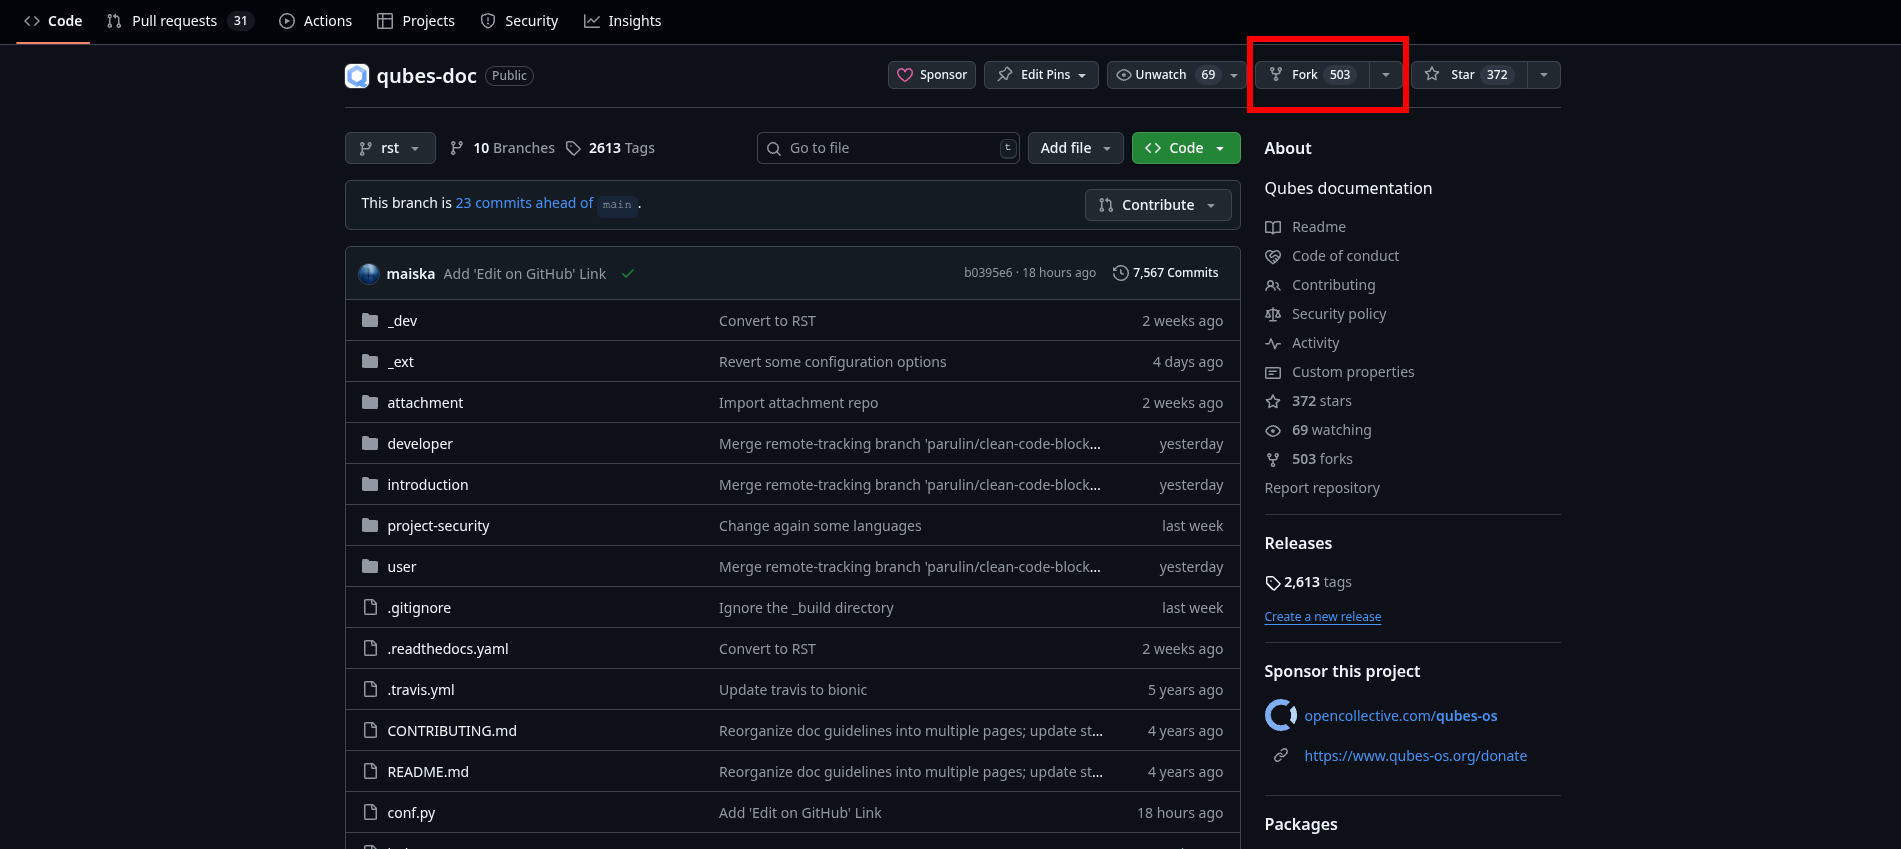
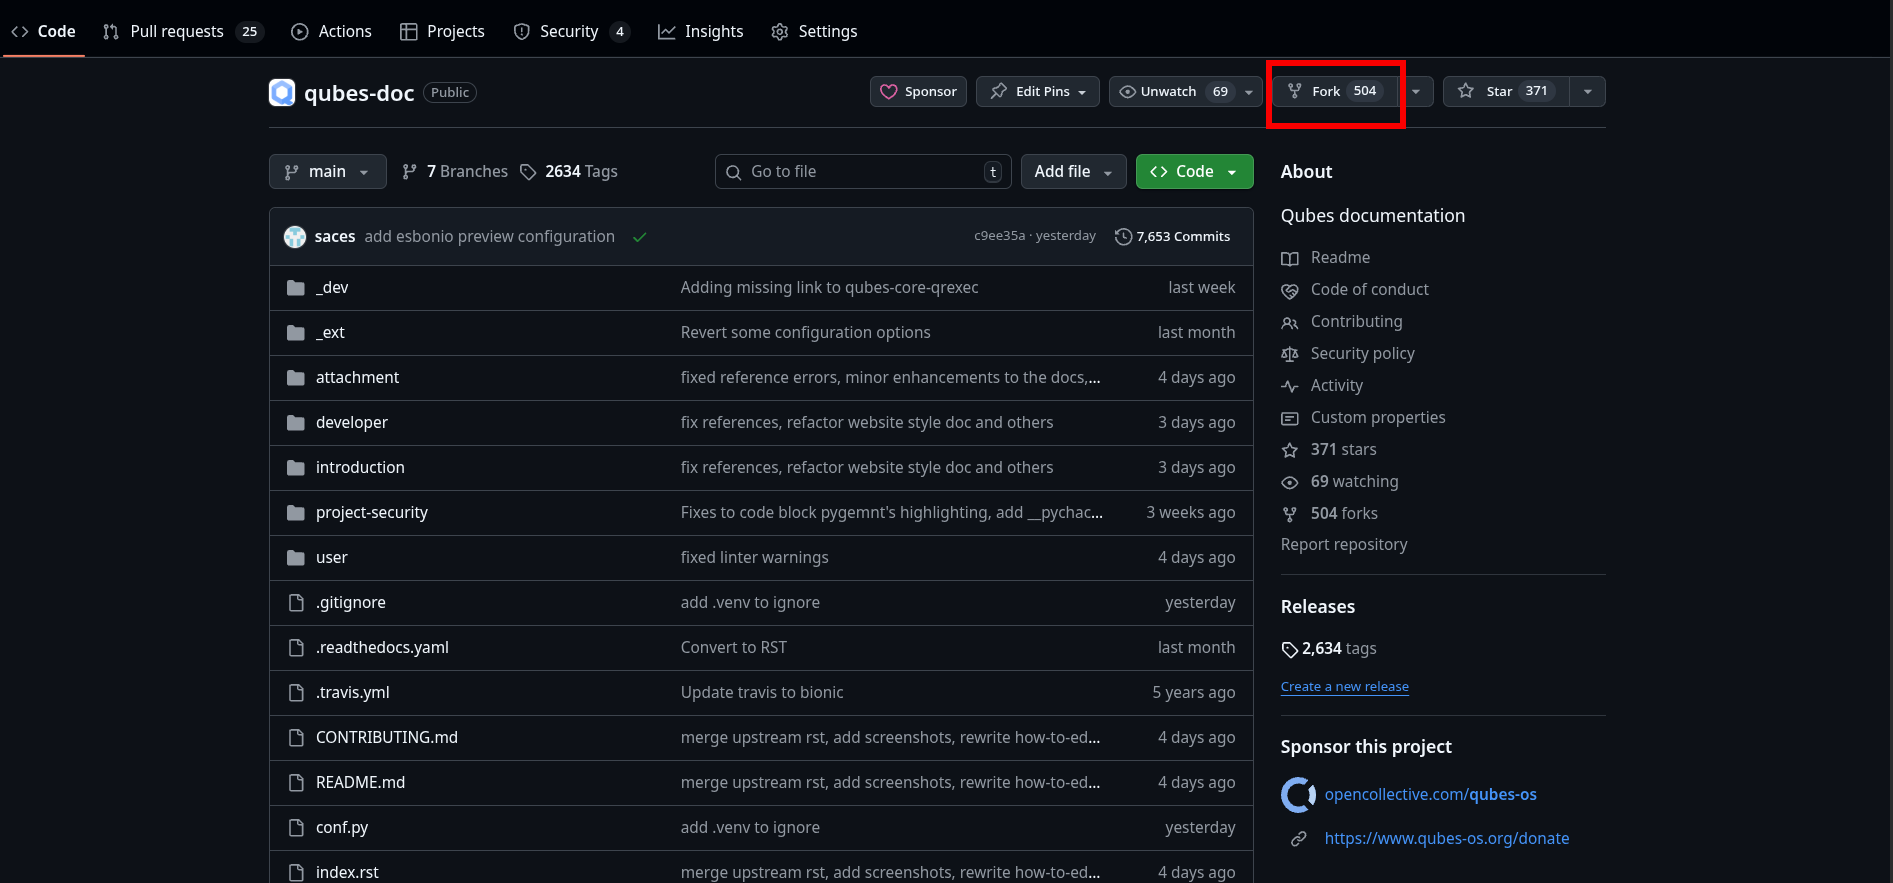
add screenshots with main branch, remove obsolete images, references to main branch instead of rst for conf.py, .readthedocs.yml, attachment, _ext, use .venv

diff --git a/developer/general/how-to-edit-the-rst-documentation.rst b/developer/general/how-to-edit-the-rst-documentation.rst
@@ -22,12 +22,10 @@ relying solely on the web and either serve it locally or read the rST files dire
 EPUB or PDF versions of Qubes OS documenation can also
 be downloaded from `doc.qubes-os.org <https://doc.qubes-os.org/en/latest/>`__:
 
-|epub-pdf|
-
-..
-  TODO screenshots with main branch instead of rst when rst merged in main
-  TODO add draft pull request screenshot
-
+.. figure:: /attachment/doc/rst-rtd-epub-pdf.png
+   :alt: Highlights from where one can download a ePUB or PDF of hte Qubes OS documentation deployed on RTD
+   :scale: 20 %
+   :align: center
 
 
 The documentation is a volunteer community effort. People like you are
@@ -72,9 +70,6 @@ When you click on it, you’ll be taken to the source file — a reStructuredTex
 
 On this page, there will be a
 button to edit the file (if you are already logged in).
-
-..
-  TODO screenshot when rst merged in main
 
 |github-edit|
 
@@ -191,10 +186,7 @@ TL;DR: How to edit the documentation index
 For a more comprehensive guide to the rST syntax and pitfalls please refer to the :doc:`reStrucutredText Style Guide </developer/general/rst-documentation-style-guide/>`.
 
 The source file for the :doc:`documentation index (a.k.a. table of contents) </index>` is
-`index.rst <https://github.com/QubesOS/qubes-doc/blob/rst/index.rst>`__.
-
-..
-  TODO: point to index, conf.py etc on main not on rst when rst merged in main
+`index.rst <https://github.com/QubesOS/qubes-doc/blob/main/index.rst>`__.
 
 
 :file:`index.rst` contains information about the hierarchy between the files in the documentation and/or
@@ -221,7 +213,7 @@ TL;DR: How to add images
 
 For a more comprehensive guide to the rST syntax and pitfalls please refer to the :doc:`reStrucutredText Style Guide </developer/general/rst-documentation-style-guide/>`.
 
-Images reside inside the `qubes-doc repository <https://github.com/QubesOS/qubes-doc/>`__ in the directory `attachment/doc <https://github.com/QubesOS/qubes-doc/tree/rst/attachment/doc>`__.
+Images reside inside the `qubes-doc repository <https://github.com/QubesOS/qubes-doc/>`__ in the directory `attachment/doc <https://github.com/QubesOS/qubes-doc/tree/main/attachment/doc>`__.
 
 To add an image to a page, use the following syntax:
 
@@ -283,9 +275,9 @@ Qubes OS rST configuration
 :file:`qubes-doc` directory contains a build configuration file named :file:`conf.py`, used by Sphinx
 to define `input and output behaviour <https://www.sphinx-doc.org/en/master/usage/configuration.html>`__.
 It contains settings and extensions that define how the documentation will be generated.
-You can find it `here <https://github.com/QubesOS/qubes-doc/blob/rst/conf.py>`__.
+You can find it `here <https://github.com/QubesOS/qubes-doc/blob/main/conf.py>`__.
 
-You can also find a :file:`readthedocs.yml` `file <https://github.com/QubesOS/qubes-doc/blob/rst/.readthedocs.yaml>`__
+You can also find a :file:`readthedocs.yml` `file <https://github.com/QubesOS/qubes-doc/blob/main/.readthedocs.yaml>`__
 which tells RTD how to build the documentation. It defines the build environment, Python version, required dependencies,
 and which Sphinx configuration to run. Thus RTD automatically generates and hosts the docs.
 
@@ -295,7 +287,7 @@ Extensions
 
 We use several Sphinx `extensions <https://www.sphinx-doc.org/en/master/usage/extensions/index.html>`__
 as defined in :file:`conf.py`, as well a simple custom one to embed YouTube videos,
-which can be found `here <https://github.com/QubesOS/qubes-doc/tree/rst/_ext>`__.
+which can be found `here <https://github.com/QubesOS/qubes-doc/tree/main/_ext>`__.
 
 
 .. _build_locally:
@@ -332,8 +324,8 @@ Using venv
 
     .. code-block:: console
 
-     $ python -m venv .q_env
-     $ source .q_env/bin/activate
+     $ python -m venv .venv
+     $ source .venv/bin/activate
      $ pip install -r qubes-doc/requirements.txt
      $ pip install sphinx sphinx-lint sphinx-autobuild
 
@@ -467,8 +459,8 @@ An editor you can use is `ReText <https://github.com/retext-project/retext>`__ b
 
 .. code-block:: console
 
-   $ python3 -m venv myenv
-   $ source myenv/bin/activate
+   $ python3 -m venv .venv
+   $ source .venv/bin/activate
    $ sudo apt install libxcb-cursor0
    $ pip3 install ReText
 
@@ -537,7 +529,4 @@ you are not willing or able to do so.)
    :alt: Highlights the pull request <number> and its build in the build list on RTD
 .. |pull-request-build| image:: /attachment/doc/doc-pr_11_view-pr-rtd.png
    :alt: Highlights the View Docs button in a specific build for a pull request <number> on RTD
-.. |epub-pdf| image:: /attachment/doc/rst-rtd-epub-pdf.png
-   :alt: Highlights from where one can download a ePUB or PDF of hte Qubes OS documentation deployed on RTD
-   :scale: 20 %
-   :align: middle
+
